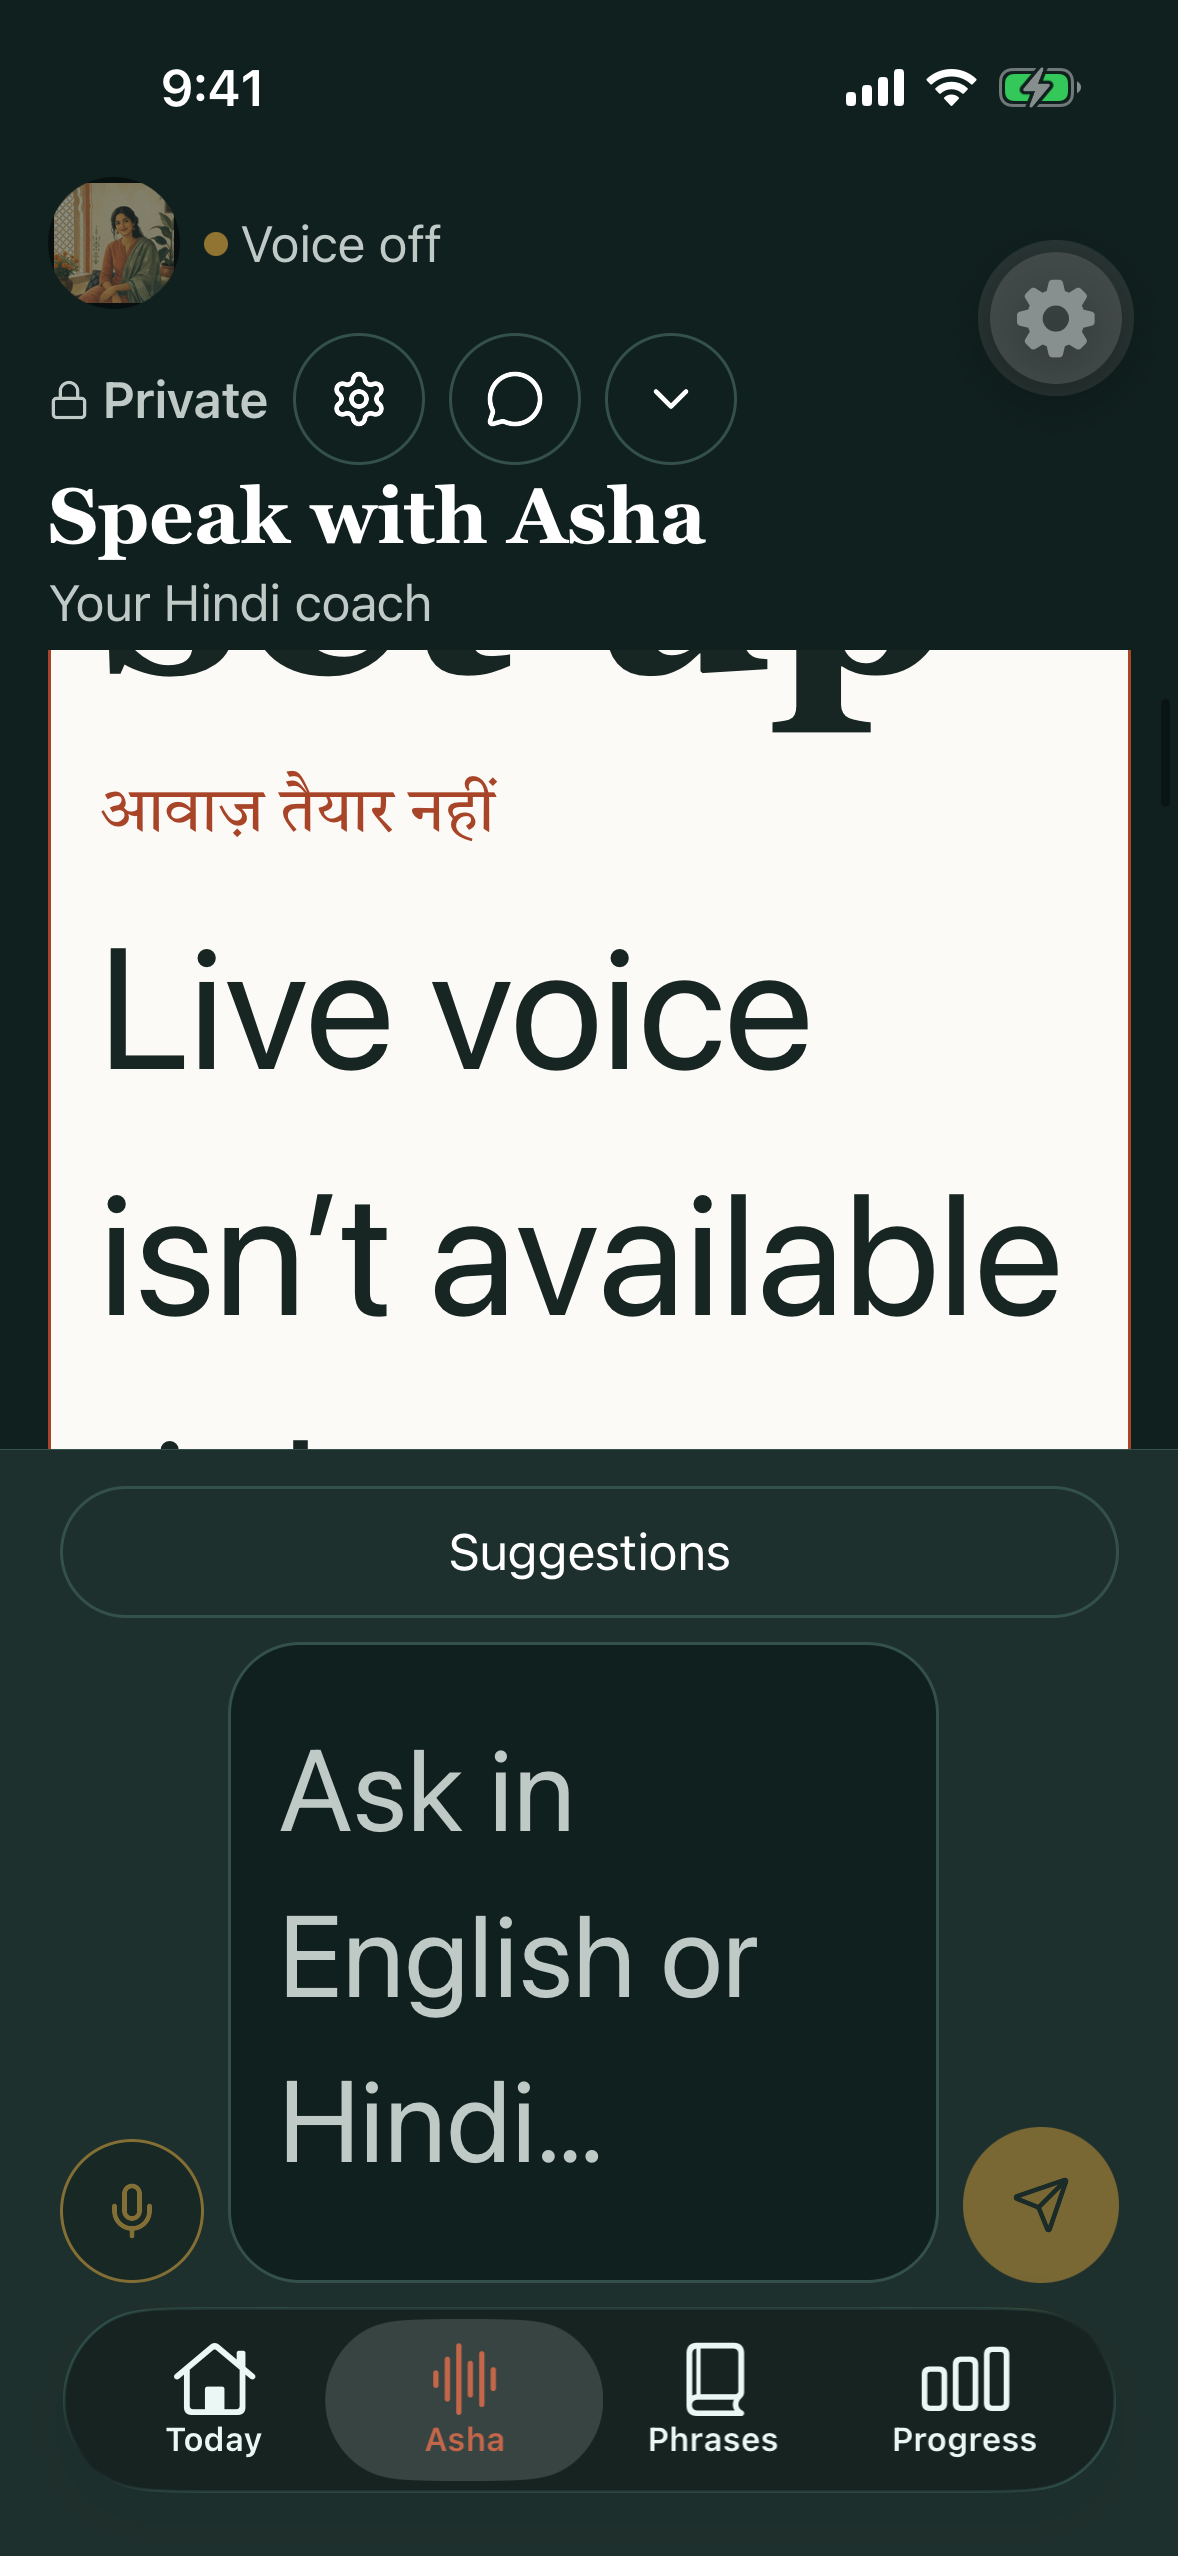
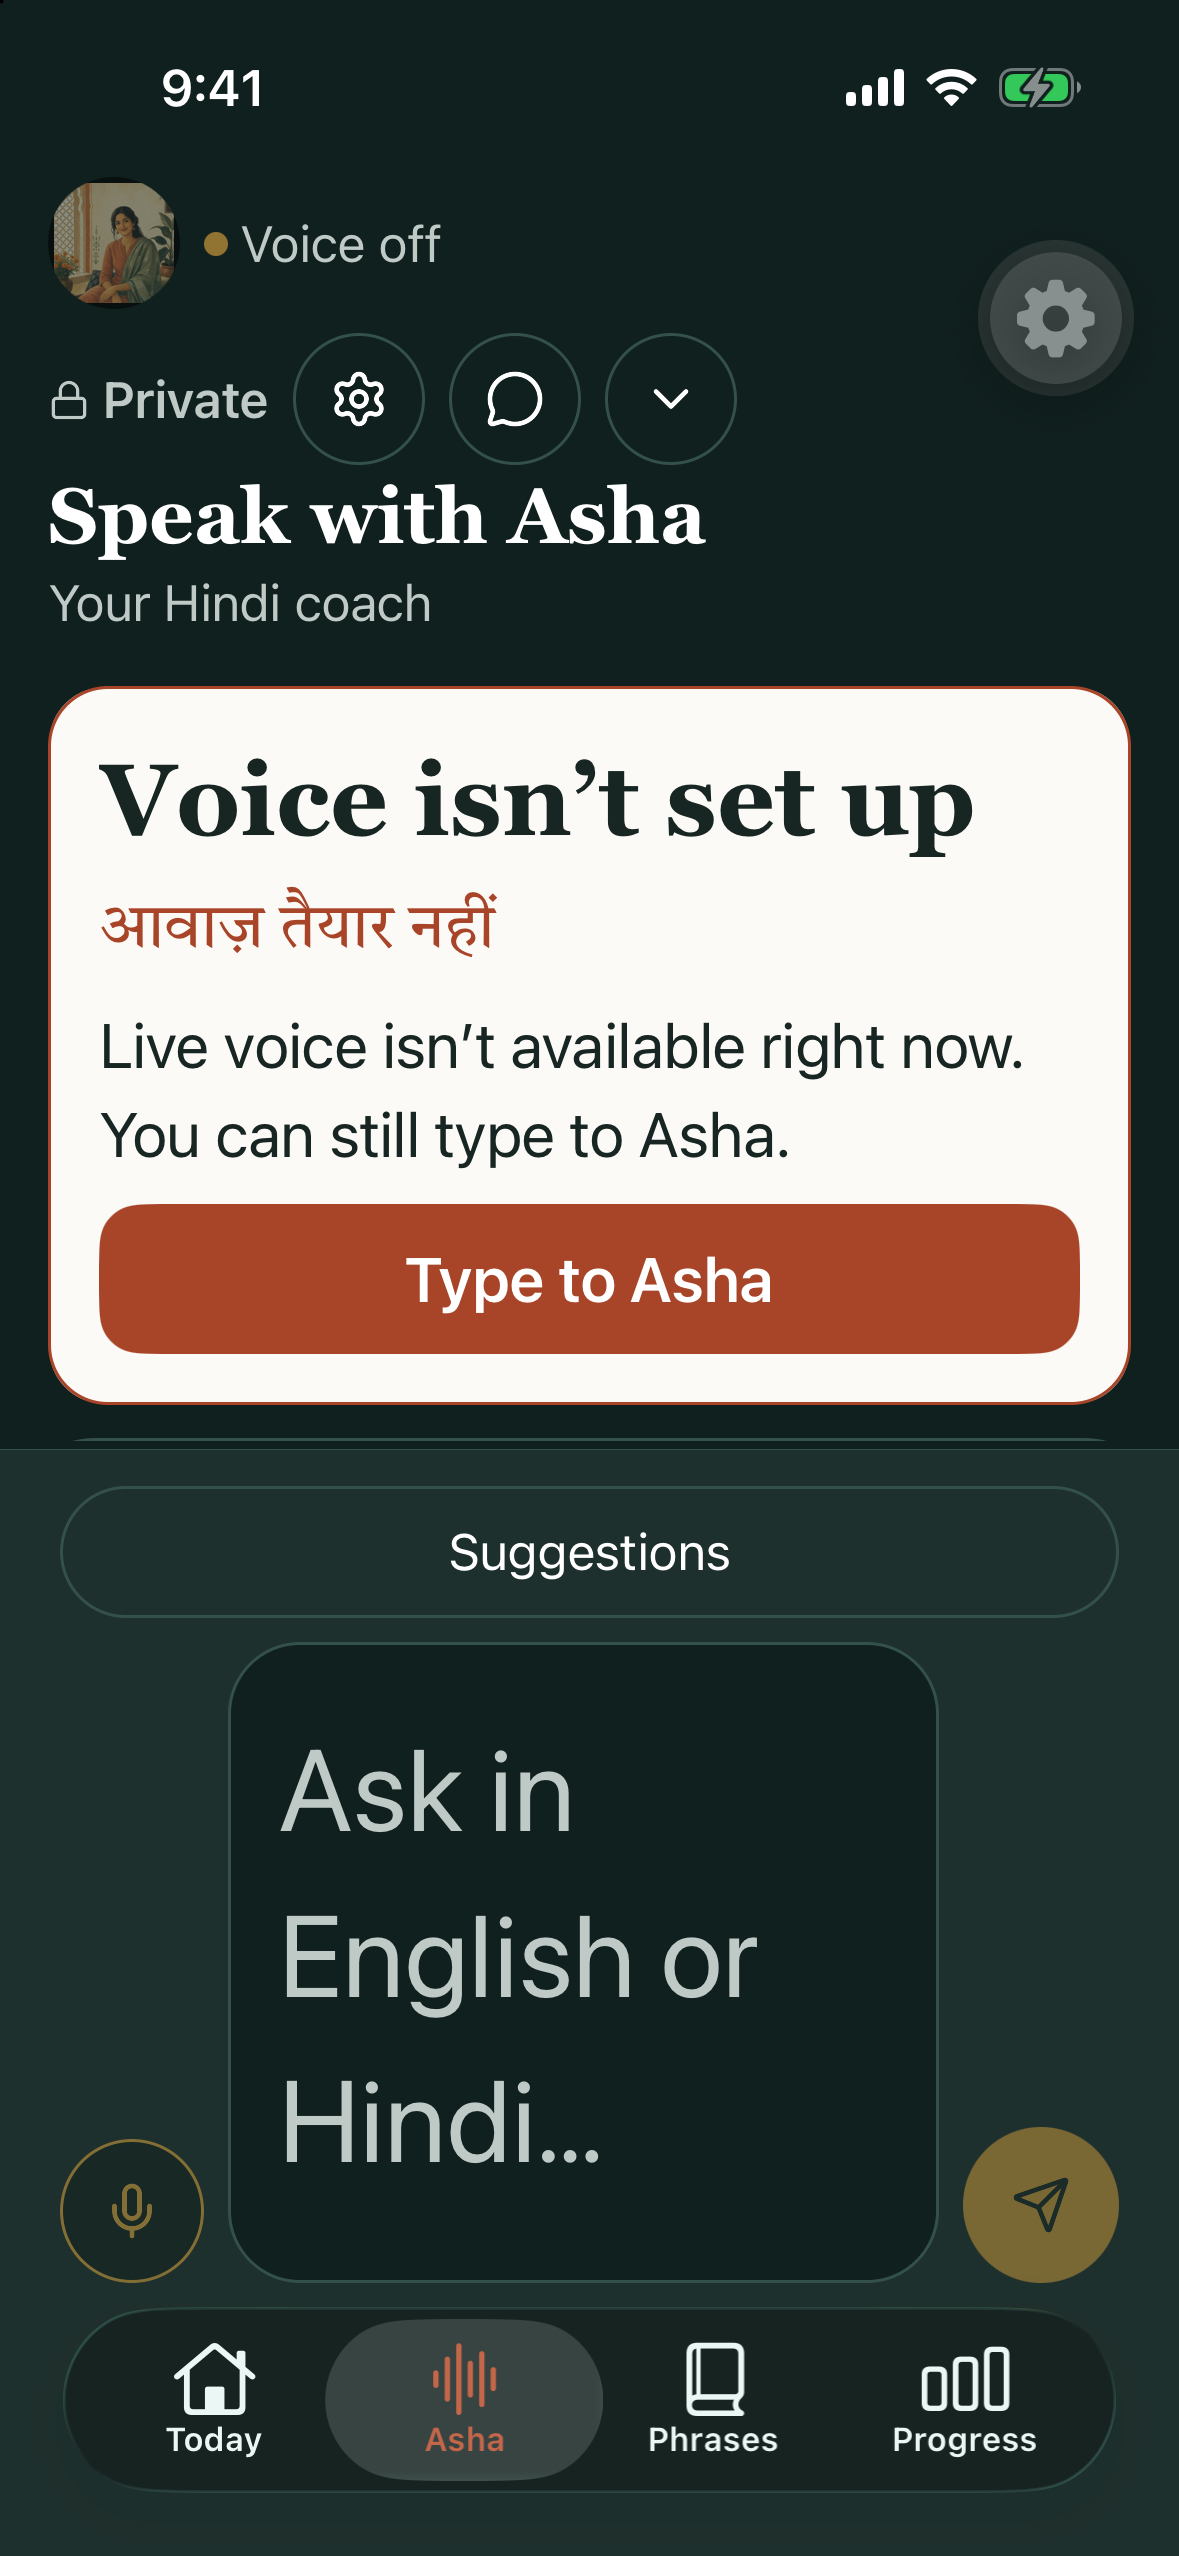
Keep Type to Asha on the first screen at the largest text size.
Cap the voice-off card title, body, and button with layout.headerFontScaleCap, name the 0.5 dim as layout.voiceUnavailableOpacity, and stop calling the unavailable portrait a button.

diff --git a/__tests__/live-runtime-regressions.test.tsx b/__tests__/live-runtime-regressions.test.tsx
@@ -1909,21 +1909,23 @@ describe('offline capture and queued reports', () => {
     expect(cardStyle.borderColor).toBe(lightColors.brand);
     const title = view.getByText('Voice isn’t set up');
     expect(StyleSheet.flatten(title.props.style).fontFamily).toBe(displayFont);
+    expect(title.props.maxFontSizeMultiplier).toBe(layout.headerFontScaleCap);
+    const body = view.getByText('Live voice isn’t available right now. You can still type to Asha.');
+    expect(body.props.maxFontSizeMultiplier).toBe(layout.headerFontScaleCap);
     const hindi = view.getByText('आवाज़ तैयार नहीं');
     expect(hindi.props.accessibilityLanguage).toBe('hi-IN');
     expect(StyleSheet.flatten(hindi.props.style).fontFamily).toBe('Tiro Devanagari Hindi');
-    expect(view.getByText('Live voice isn’t available right now. You can still type to Asha.')).toBeTruthy();
     expect(hindi.props.maxFontSizeMultiplier).toBe(layout.headerFontScaleCap);
     expect(StyleSheet.flatten(hindi.props.style).fontSize).toBe(typeScale.body.fontSize);
     const voice = view.getByLabelText('Asha voice, unavailable');
     expect(voice.props.accessibilityState).toEqual({ disabled: true });
-    expect(StyleSheet.flatten(voice.props.style).opacity).toBe(0.5);
+    expect(StyleSheet.flatten(voice.props.style).opacity).toBe(layout.voiceUnavailableOpacity);
     expect(view.getByText('Voice off')).toBeTruthy();
     expect(view.queryByText('Tap Asha to start talking with her.')).toBeNull();
     expect(view.queryByRole('button', { name: 'Talk with Asha' })).toBeNull();
     const composerMic = view.getByTestId('composer-mic-toggle');
     expect(composerMic.props.accessibilityState).toEqual({ disabled: true });
-    expect(StyleSheet.flatten(composerMic.props.style).opacity).toBe(0.5);
+    expect(StyleSheet.flatten(composerMic.props.style).opacity).toBe(layout.voiceUnavailableOpacity);
     const headerIds = collectTestIds(view.toJSON());
     expect(headerIds.indexOf('voice-conversation-hero')).toBeGreaterThanOrEqual(0);
     expect(headerIds.indexOf('voice-conversation-hero')).toBeLessThan(headerIds.indexOf('live-voice-config-error'));
@@ -1942,7 +1944,8 @@ describe('offline capture and queued reports', () => {
     expect(view.queryByRole('button', { name: 'Talk with Asha' })).toBeNull();
     const portrait = view.getByLabelText('Asha voice, unavailable');
     expect(portrait.props.accessibilityState).toEqual({ disabled: true });
-    expect(StyleSheet.flatten(portrait.props.style).opacity).toBe(0.5);
+    expect(StyleSheet.flatten(portrait.props.style).opacity).toBe(layout.voiceUnavailableOpacity);
+    expect(portrait.props.accessibilityRole).toBeUndefined();
     expect(view.queryByTestId('mock-ai-consent-gate')).toBeNull();
     await fireEvent.press(view.getByRole('button', { name: 'Type to Asha' }));
     expect(view.getByTestId('mock-ai-consent-gate')).toBeTruthy();

diff --git a/src/app/(tabs)/live.tsx b/src/app/(tabs)/live.tsx
@@ -1173,11 +1173,11 @@ export default function LiveScreen() {
 
             {liveConfigError ? (
               <View accessibilityRole="alert" style={[styles.liveConfigCard, { width: heroContentWidth }]} testID="live-voice-config-error">
-                <Text style={styles.liveConfigTitle}>Voice isn’t set up</Text>
+                <Text maxFontSizeMultiplier={layout.headerFontScaleCap} style={styles.liveConfigTitle}>Voice isn’t set up</Text>
                 <Text accessibilityLanguage="hi-IN" maxFontSizeMultiplier={layout.headerFontScaleCap} style={styles.liveConfigHindi}>आवाज़ तैयार नहीं</Text>
-                <Text style={styles.liveConfigBody}>{liveConfigError}</Text>
+                <Text maxFontSizeMultiplier={layout.headerFontScaleCap} style={styles.liveConfigBody}>{liveConfigError}</Text>
                 <Pressable accessibilityRole="button" onPress={focusAshaComposer} style={styles.talkButton} testID="type-to-asha">
-                  <Text style={styles.talkButtonText}>Type to Asha</Text>
+                  <Text maxFontSizeMultiplier={layout.headerFontScaleCap} style={styles.talkButtonText}>Type to Asha</Text>
                 </Pressable>
               </View>
             ) : null}
@@ -1423,7 +1423,7 @@ export const createLiveStyles = (c: ReturnType<typeof useTheme>['colors']) => ({
   liveConfigTitle: { ...type.title, color: c.ink },
   liveConfigHindi: { ...hindiType(type.body.fontSize), color: c.brand },
   liveConfigBody: { ...type.body, color: c.ink },
-  voiceUnavailable: { opacity: 0.5 },
+  voiceUnavailable: { opacity: layout.voiceUnavailableOpacity },
   voiceOffCaption: { ...type.caption, flexShrink: 0, color: c.heroSubtle, textAlign: 'center' },
   screenHeader: { alignItems: 'center', backgroundColor: c.night, paddingBottom: spacing.xs },
   headerSettings: { width: layout.touchTarget, height: layout.touchTarget, minWidth: layout.touchTarget, minHeight: layout.touchTarget, alignItems: 'center', justifyContent: 'center', borderRadius: radius.pill, borderCurve: 'continuous', borderColor: c.nightLine, borderWidth: 1 },

diff --git a/__tests__/realtime-voice-accessibility.test.tsx b/__tests__/realtime-voice-accessibility.test.tsx
@@ -36,7 +36,7 @@ jest.mock('@/hooks/use-realtime-conversation', () => ({
 }));
 
 import { RealtimeVoiceButton, reducedMotionRipple } from '../src/components/realtime-voice-button';
-import { lightColors } from '../src/theme';
+import { layout, lightColors } from '../src/theme';
 
 const haptics = jest.requireMock('@/lib/haptics') as {
   hapticStartRecording: jest.Mock;
@@ -170,7 +170,7 @@ describe('realtime voice accessibility', () => {
     expect(end).toMatchObject({ backgroundColor: lightColors.dangerSoft, borderColor: lightColors.dangerLine, right: 0, top: 28 });
   });
   describe('portrait variant', () => {
-    const renderPortrait = (props: { compact?: boolean; disabled?: boolean } = {}) => render(
+    const renderPortrait = (props: { compact?: boolean; disabled?: boolean; unavailable?: boolean } = {}) => render(
       <RealtimeVoiceButton clientId="client-12345678" onError={jest.fn()} size="portrait" tone="dark" {...props}>
         <Text testID="portrait-face">Asha</Text>
       </RealtimeVoiceButton>,
@@ -206,6 +206,16 @@ describe('realtime voice accessibility', () => {
       expect(StyleSheet.flatten(recording.getByTestId('realtime-voice-portrait-badge').props.style).backgroundColor).toBe(lightColors.orbRecording);
       await fireEvent.press(recording.getByLabelText('Mute microphone'));
       expect(mockFinishTurn).toHaveBeenCalledTimes(1);
+    });
+
+    it('dims an unavailable portrait and does not call it a button', async () => {
+      mockVoiceStatus = 'disconnected';
+      const view = await renderPortrait({ unavailable: true });
+      const portrait = view.getByLabelText('Asha voice, unavailable');
+
+      expect(portrait.props.accessibilityState).toEqual({ disabled: true });
+      expect(portrait.props.accessibilityRole).toBeUndefined();
+      expect(StyleSheet.flatten(portrait.props.style).opacity).toBe(layout.voiceUnavailableOpacity);
     });
 
     it('shrinks with the compact layout and exposes disabled state', async () => {

diff --git a/src/components/realtime-voice-button.tsx b/src/components/realtime-voice-button.tsx
@@ -318,7 +318,7 @@ function RealtimeVoiceButtonView({ active = true, children, compact = false, dis
       <Pressable
         accessibilityHint={unavailable ? undefined : accessibilityHint}
         accessibilityLabel={controlLabel('talk')}
-        accessibilityRole="button"
+        accessibilityRole={unavailable ? undefined : 'button'}
         accessibilityState={{ disabled: blocked }}
         disabled={blocked}
         onPress={press}
@@ -355,7 +355,7 @@ function RealtimeVoiceButtonView({ active = true, children, compact = false, dis
           <Pressable
             accessibilityLabel={controlLabel('talk')}
             accessibilityHint={unavailable ? undefined : accessibilityHint}
-            accessibilityRole="button"
+            accessibilityRole={unavailable ? undefined : 'button'}
             accessibilityState={{ disabled: blocked }}
             disabled={blocked}
             onPress={press}
@@ -471,5 +471,5 @@ const useStyles = makeStyles((c) => ({
   portraitBadgeRecording: { backgroundColor: c.orbRecording },
   portraitBadgeConnecting: { backgroundColor: c.heroSubtle },
   endButtonPortrait: { right: 0 },
-  disabled: { opacity: 0.5 },
+  disabled: { opacity: layout.voiceUnavailableOpacity },
 }));

diff --git a/src/theme.ts b/src/theme.ts
@@ -115,8 +115,10 @@ export const layout = {
    * The Asha header starts as a compact bar with a small avatar so a chat bubble fits.
    */
   accessibilityFontScale: 1.6,
-  /** Caps the Asha title, Private label, subtitle, and READY status. */
+  /** Caps the Asha title, Private label, subtitle, READY status, and the voice-off card. */
   headerFontScaleCap: 1.3,
+  /** Portrait and mic when live voice is off. Same dim as a disabled control, with no new color. */
+  voiceUnavailableOpacity: 0.5,
   /**
    * Caps the composer so three lines can hold "Ask in English or Hindi…".
    * Still well above the body size, so the field grows at accessibility sizes.
